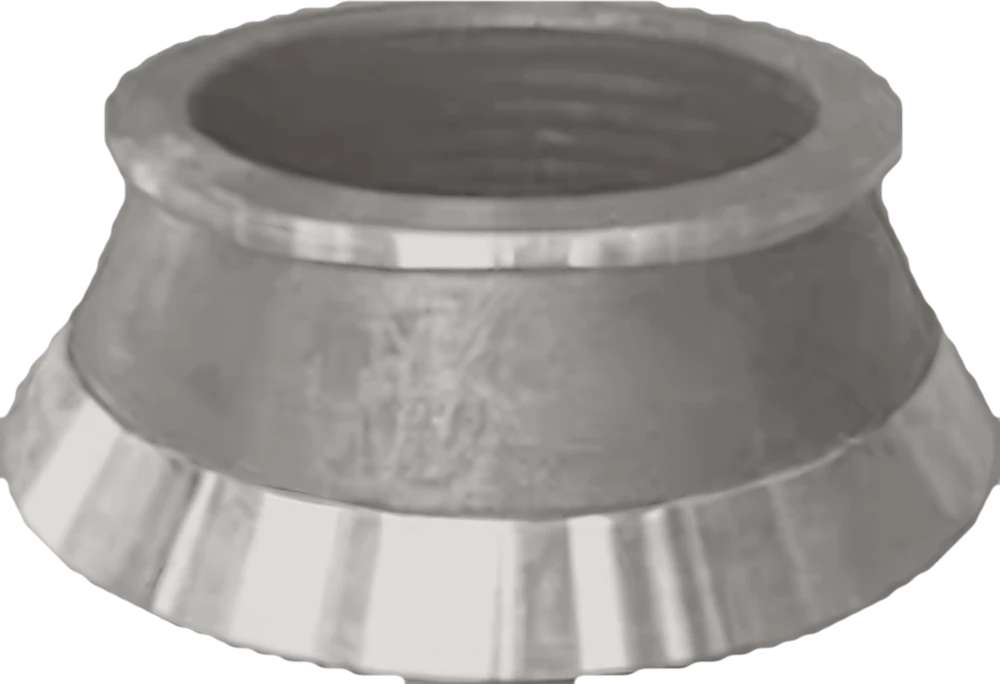
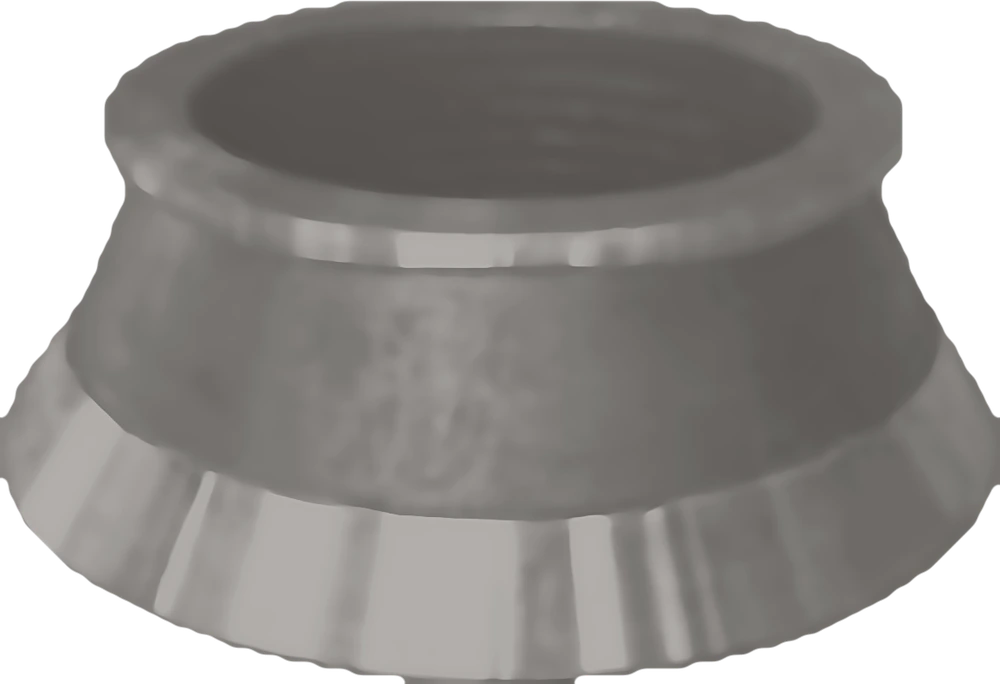
Bowl liner retoned to match the cone set; CAD photo for chamber optimisation
Claude-Session: https://claude.ai/code/session_01Dpv3H4dmne5RBJc11vKtrm

diff --git a/index.html b/index.html
@@ -125,7 +125,7 @@
       <ul class="facts"><li>We measure the worn liners<span class="m">3D scan</span></li><li>We redesign the profile<span class="m">and the grade</span></li><li>You run the new set<span class="m">and compare wear life</span></li></ul>
       <div class="actions"><a class="btn" href="/surge-alloys-website/contact/?part=Crushing+chamber+optimisation">Ask for a chamber study <svg viewBox="0 0 16 16" fill="none" aria-hidden="true"><path d="M1 8h13M9 3l5 5-5 5" stroke="currentColor" stroke-width="1.6"/></svg></a></div>
     </div>
-    <figure class="photo rv"><img src="/surge-alloys-website/assets/img/pattern-check.webp" srcset="/surge-alloys-website/assets/img/pattern-check-sm.webp 600w, /surge-alloys-website/assets/img/pattern-check.webp 1280w" sizes="(min-width: 62rem) 46vw, 100vw" width="1280" height="1920" alt="Checking a liner profile against its template" loading="lazy" data-parallax></figure>
+    <figure class="photo rv"><img src="/surge-alloys-website/assets/img/cad.webp" srcset="/surge-alloys-website/assets/img/cad-sm.webp 900w, /surge-alloys-website/assets/img/cad.webp 1920w" sizes="(min-width: 62rem) 46vw, 100vw" width="1920" height="1280" alt="Our engineer checking the 3D model of a liner in CAD" loading="lazy" data-parallax></figure>
   </div>
 </div></div></section>
 

diff --git a/_src/pages/index.html b/_src/pages/index.html
@@ -102,7 +102,7 @@
       <ul class="facts"><li>We measure the worn liners<span class="m">3D scan</span></li><li>We redesign the profile<span class="m">and the grade</span></li><li>You run the new set<span class="m">and compare wear life</span></li></ul>
       <div class="actions"><a class="btn" href="/contact/?part=Crushing+chamber+optimisation">Ask for a chamber study {{ARROW}}</a></div>
     </div>
-    <figure class="photo rv"><img src="/assets/img/pattern-check.webp" srcset="/assets/img/pattern-check-sm.webp 600w, /assets/img/pattern-check.webp 1280w" sizes="(min-width: 62rem) 46vw, 100vw" width="1280" height="1920" alt="Checking a liner profile against its template" loading="lazy" data-parallax></figure>
+    <figure class="photo rv"><img src="/assets/img/cad.webp" srcset="/assets/img/cad-sm.webp 900w, /assets/img/cad.webp 1920w" sizes="(min-width: 62rem) 46vw, 100vw" width="1920" height="1280" alt="Our engineer checking the 3D model of a liner in CAD" loading="lazy" data-parallax></figure>
   </div>
 </div></div></section>
 
